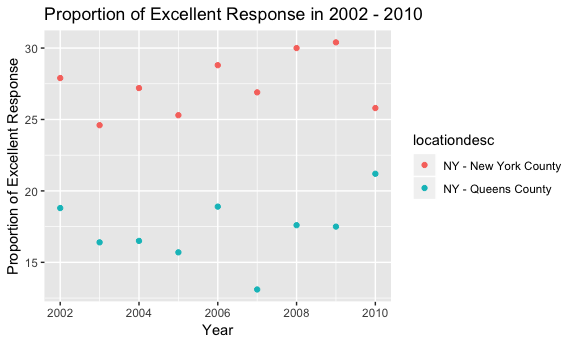
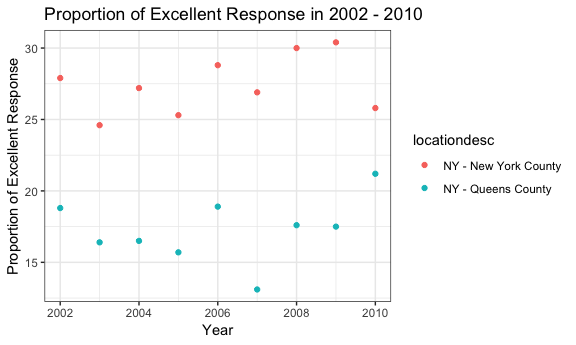
data revised 2

diff --git a/p8105_HW2_jt3098.md b/p8105_HW2_jt3098.md
@@ -76,16 +76,14 @@ subway_data %>%
 
 ``` r
 n_entrance_novending = filter(subway_data, entry == "TRUE", vending == "NO") %>%
-  distinct(line, station_name) %>%
   nrow() # Count the total number of entrance without vending
 n_nonvending = filter(subway_data, vending == "NO") %>%
-  distinct(line, station_name) %>%
   nrow() # Count the total number of Exit-only without vending
 ```
 
 -   There are 465 distinct stations in NYC.
 -   There are 84 stations are ADA compliant.
--   The proportion of non-vending entrance is 0.4343434
+-   The proportion of non-vending entrance is 0.3770492
 
 ``` r
 subway_data_tidy = gather(subway_data, key = "route_number", value = "route_name", route1:route11)
@@ -148,7 +146,7 @@ About these data:
 -   There are 215 records in waterwheel\_data, which implies the times that water wheels were used.
 -   In prcp\_data, all the data are from sheet 3 and 4 of HealthyHarborWaterWheelTotals.xlsx. the precipitation was collected in 20 months. The number of months recorded in 2016 is 12 and the number of months recorded in 2017 is 8, respectively.
 -   The tatol precipitation in 2017 is 29.93.
--   The median number for sports balls is 8.
+-   The median number for sports balls is 26.
 
 Problem 3
 ---------
@@ -254,7 +252,8 @@ ggplot(excellent_NQ, aes(x = year, y = excellent, color = locationdesc)) +
     x = "Year",
     y = "Proportion of Excellent Response",
     title = "Proportion of Excellent Response in 2002 - 2010"
-  )
+  ) +
+  theme_bw()
 ```
 
 <img src="p8105_HW2_jt3098_files/figure-markdown_github/Making plots-2.png" width="90%" />
